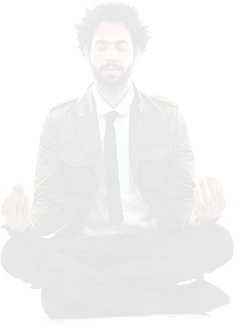
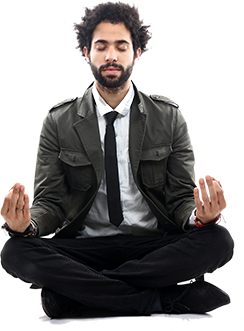
Added carousel to speehes

diff --git a/index.html b/index.html
@@ -7,6 +7,7 @@
     <title>Weekly WebDev Challenge exercise 16</title>
      <link rel="stylesheet" href="https://stackpath.bootstrapcdn.com/bootstrap/4.1.2/css/bootstrap.min.css" integrity="sha384-Smlep5jCw/wG7hdkwQ/Z5nLIefveQRIY9nfy6xoR1uRYBtpZgI6339F5dgvm/e9B" crossorigin="anonymous"><!--bootrstrap-->
     <link href="https://fonts.googleapis.com/css?family=PT+Serif|Poppins" rel="stylesheet"><!--google fonts-->
+    <link rel="stylesheet" href="https://use.fontawesome.com/releases/v5.1.0/css/all.css" integrity="sha384-lKuwvrZot6UHsBSfcMvOkWwlCMgc0TaWr+30HWe3a4ltaBwTZhyTEggF5tJv8tbt" crossorigin="anonymous">
     <link href="css/main.css" rel="stylesheet">
 </head>
     
@@ -141,11 +142,41 @@
             </div>    
         </section>  
 
-    
+<!-------------------------------------------------------     speeches section         ---------------------------------------------->      
+        
+        <section class="speeches">
+            <div class="row justify-content-md-center">
+                <div class="carousel col-md-5">
+                    <div class="carousel-imgages">
+                        <div class="carousel-img">
+                            <img id="one" class="client previous-img" src="img/images/client1.png" alt="First slide">
+                        </div>
+                        <div class="carousel-img">
+                            <img id="two" class="client active-img" src="img/images/client2.png" alt="Second slide">
+                        </div>
+                        <div class="carousel-img">
+                            <img id="three" class="client next-img" src="img/images/client3.png" alt="Third slide">
+                        </div>
+                    </div>
+                    <button class="caros-btn prev" id="prev">
+                        <span class="fas fa-angle-left caros-icon" aria-hidden="true"></span>
+                        <span class="sr-only">Previous</span>
+                    </button>
+                    <button class="caros-btn next" id="next">
+                        <span class="fas fa-angle-right caros-icon" aria-hidden="true"></span>
+                        <span class="sr-only">Next</span>
+                    </button>
+        
+                </div>
+            
+                <div class="col-md-5 speeches-text">
+                    <h3><span class="number grey">04.</span><strong>Some awesom <span class="green">speeches</span></strong></h3>
+                    <blockquote class="blockquote grey small">Duis autem vel eum iriure dolor in hendretit in vulputate velit esse molestie consequat, vel illum dolore eu feugiat nulla facilisis</blockquote>
+                </div>
+            </div>    
+        </section>
         
         
-        
-        <section class="speeches"></section>
         <section class="pricing"></section>
         <footer></footer>
     </div>

diff --git a/js/script.js b/js/script.js
@@ -1,0 +1,61 @@
+$("#prev").click(function() {
+    
+    if ($('#one').hasClass('previous-img')) { //if two is active
+        
+        $('#one').removeClass('previous-img').addClass('next-img-one');
+        
+        $('#two').removeClass('active-img').addClass('previous-img');
+        
+        $('#three').removeClass('next-img').addClass('active-img-three');
+        
+    } else if ($('#two').hasClass('previous-img')) { //if three is active
+       
+        $('#one').removeClass('next-img-one').addClass('active-img-one');
+        
+        $('#two').removeClass('previous-img').addClass('next-img');
+        
+        $('#three').removeClass('active-img-three').addClass('previous-img');
+        
+    } else if ($('#three').hasClass('previous-img')) { //if one is active
+        
+        $('#one').removeClass('active-img-one').addClass('previous-img');
+        
+        $('#two').removeClass('next-img').addClass('active-img');
+        
+        $('#three').removeClass('previous-img').addClass('next-img');
+        };    
+});
+
+$("#next").click(function() {
+    
+    if ($('#one').hasClass('previous-img')) { //if two is active
+        
+        $('#one').removeClass('previous-img').addClass('active-img-one');
+        
+        $('#two').removeClass('active-img').addClass('next-img');
+        
+        $('#three').removeClass('next-img').addClass('previous-img');
+        
+    } else if ($('#two').hasClass('next-img')) { //if one is active
+
+        $('#three').removeClass('previous-img').addClass('active-img-three');
+       
+        $('#two').removeClass('next-img').addClass('previous-img'); 
+        
+        $('#one').removeClass('active-img-one').addClass('next-img-one'); 
+   
+    } else if ($('#three').hasClass('active-img-three')) { //if three is active
+
+        $('#three').removeClass('active-img-three').addClass('next-img');
+       
+        $('#two').removeClass('previous-img').addClass('active-img'); 
+        
+        $('#one').removeClass('next-img-one').addClass('previous-img'); 
+    };
+
+});
+
+
+    
+    
+    

diff --git a/css/main.css b/css/main.css
@@ -197,4 +197,94 @@ h3 {
     width:100%;
 }
 
+/* speeches section*/
+
+.client {
+    height:17rem;
+}
+
+.carousel-imgages {
+    position: relative;
+    width:32rem;
+}
+
+.previous-img {
+    position:absolute;
+    left: 0;
+    top:2rem;
+    opacity:0.3;
+    height:13rem;
+}
+
+.active-img{
+    position:absolute;
+    left: 10rem;
+    z-index:2;
+}
+
+.active-img-one {
+    position:absolute;
+    left: 8rem;
+    z-index:2;
+}
+
+.active-img-three {
+    position:absolute;
+    left: 8rem !important;
+    z-index:2;
+}
+
+.next-img {
+    position:absolute;
+    right: 0;
+    top:2rem;
+    opacity:0.3;
+    height: 13rem;
+}
+
+.next-img-one {
+    position:absolute;
+    right: -5rem;
+    top:2rem;
+    opacity:0.3;
+    height: 13rem;
+}
+
+.caros-btn {
+    background-color:#000000;
+    border-radius: 50%;
+    border:none;
+    height: 1.5rem;
+    width: 1.5rem;
+    z-index:3;
+}
+
+.caros-btn:hover {
+    background-color: #66a900;
+}
+
+.caros-icon {
+    color:#ffff;
+    font-size: 1.2rem;
+    padding:auto;
+    margin:auto;
+}
+
+.prev {
+    position: absolute;
+    left:9rem;
+    top:60%;
+}
+
+.next {
+    position: absolute;
+    right:9rem;
+    top:60%;
+}
+
+
+
+
+
+
 
